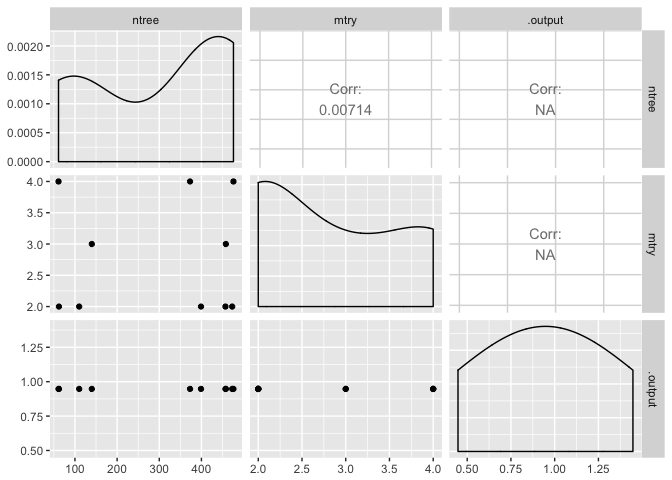
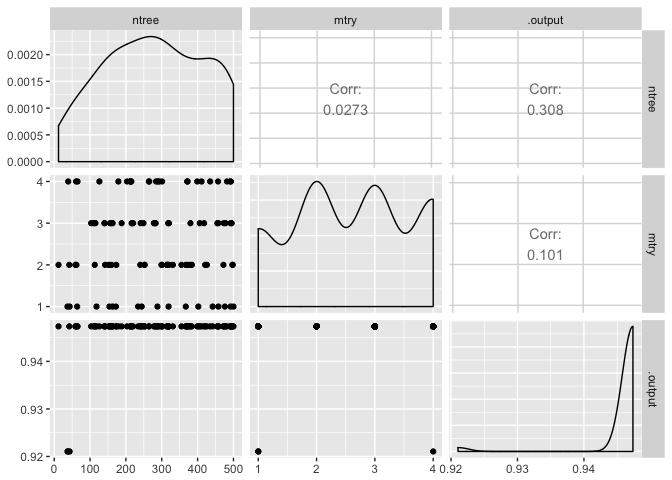
readme added

diff --git a/RandomParameterSearch/README.md b/RandomParameterSearch/README.md
@@ -40,15 +40,22 @@ Now let's set up our search space:
 ``` r
 params <- list(ntree = c(1L, 500L),
                mtry = c(1L, 4L))
-grid <- create_random_grid(nrounds = 10, params = params, seed = 1234)
+grid <- create_random_grid(nrounds = 100, params = params, seed = 1234)
 grid
 ```
 
     ## $ntree
-    ##  [1] 476  61 110 457 473 140  62 399 373 458
+    ##   [1] 476  61 110 457 473 140  62 399 373 458 498 472 244 142 126 252 249
+    ##  [18] 160 482 318  64 212 458 234 455 299 316 435 252 492 163 241 179 314
+    ##  [35] 371 283 491 289 220 115  42 426 118 495 301 500 188 278 215 288 217
+    ##  [52] 113  43 319 216  37 402 163 379 293 355 214 172 380 213 281  59 152
+    ##  [69] 240 173 301  39 478  12 421 317 156 372 320 497  65 442 406 411 418
+    ##  [86] 367 492 320 331 265 159 384 264 367 154 203 103 493 284 141
     ## 
     ## $mtry
-    ##  [1] 4 4 2 2 2 3 2 2 4 3
+    ##   [1] 1 4 3 4 3 3 2 4 2 1 2 2 1 2 4 2 3 2 4 3 1 4 3 1 3 2 2 4 2 1 1 3 4 2 4
+    ##  [36] 3 4 4 3 3 2 2 1 3 2 1 3 3 4 1 3 2 1 1 3 1 1 3 2 4 2 4 1 3 4 3 2 2 2 2
+    ##  [71] 4 4 3 2 2 2 3 4 3 2 4 1 3 4 3 1 3 2 2 4 3 2 4 2 1 4 3 4 4 3
 
 And a function that we wish to evaluate:
 
@@ -71,11 +78,11 @@ head(search)
 ```
 
     ##   ntree mtry   .output
-    ## 1   476    4 0.9473684
+    ## 1   476    1 0.9473684
     ## 2    61    4 0.9473684
-    ## 3   110    2 0.9473684
-    ## 4   457    2 0.9473684
-    ## 5   473    2 0.9473684
+    ## 3   110    3 0.9473684
+    ## 4   457    4 0.9473684
+    ## 5   473    3 0.9473684
     ## 6   140    3 0.9473684
 
 ``` r
@@ -84,11 +91,5 @@ library(GGally)
 
 ggpairs(search)
 ```
-
-    ## Warning in cor(x, y, method = method, use = use): the standard deviation is
-    ## zero
-
-    ## Warning in cor(x, y, method = method, use = use): the standard deviation is
-    ## zero
 
 ![](README_files/figure-markdown_github/unnamed-chunk-6-1.png)
